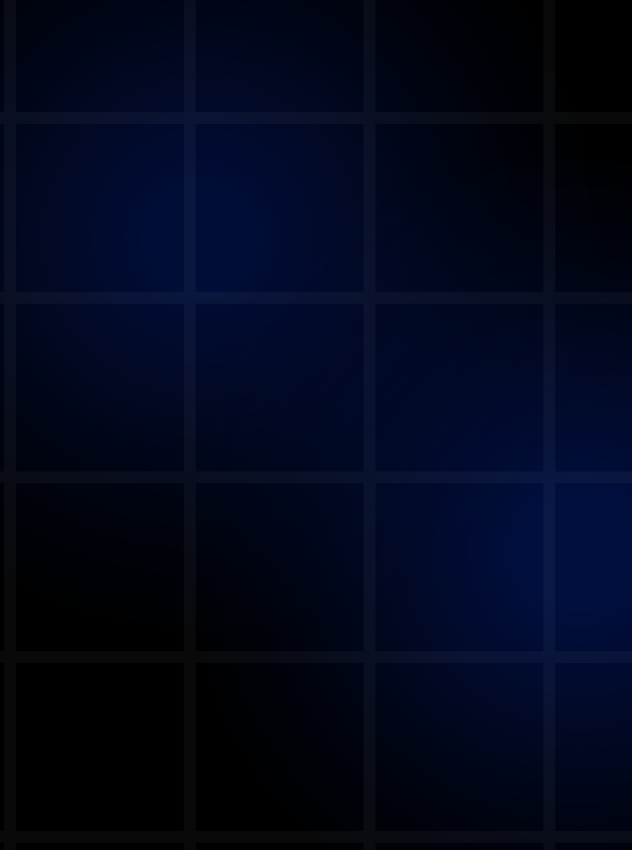
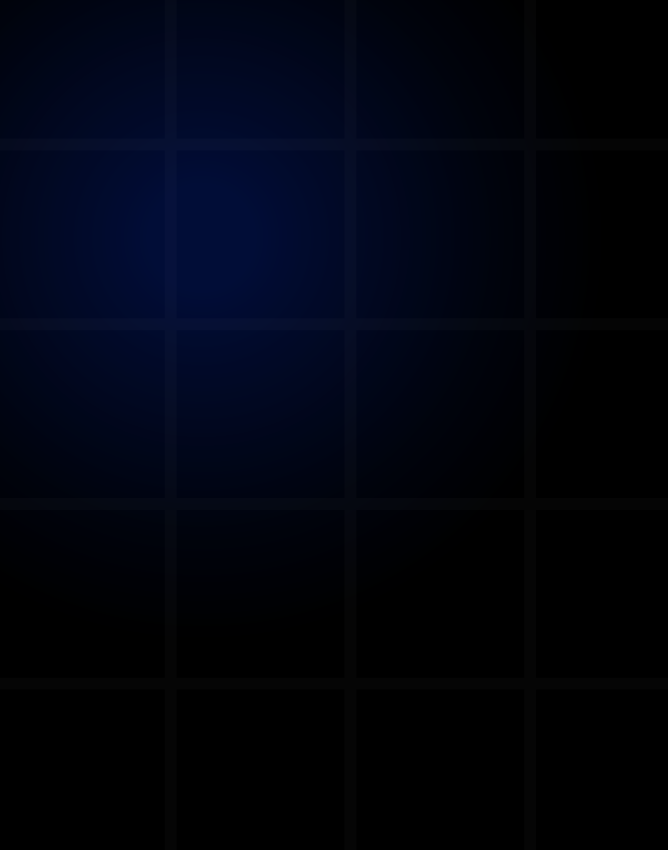
454677

Changed region(s): [[0.481, 0.2753, 1.0, 1.0]]

diff --git a/src/App.css b/src/App.css
@@ -11,8 +11,6 @@
   background-position: center; /* Center the background image */
   background-repeat: no-repeat; /* Prevent the image from repeating */ /* Minimum height of the section to ensure image visibility */
   width: 100%;
-  
-  
 }
 
 .website-logo img{
@@ -31,7 +29,7 @@
 @media  screen and (max-width: 765px)
  {
   #hero-section{
-    min-height: 100vh;
+    min-height: 70vh;
     background-image: url("./assets/Hero-Bg-mb.png"); /* Path to your image */
     background-size: cover; /* Ensure the image covers the whole section */
     background-position: center; /* Center the background image */
@@ -60,7 +58,7 @@
 }
 
 .believe-video-section {
-  min-height: 100vh;
+
   background-image: url("./assets/Hero-Bg.png"); /* Path to your image */
   background-size: cover; /* Ensure the image covers the whole section */
   background-position: center; /* Center the background image */
@@ -72,7 +70,7 @@
 @media  screen and (max-width: 765px)
  {
   .believe-video-section{
-    min-height: 100vh;
+ 
     background-image: url("./assets/Hero-Bg-mb.png"); /* Path to your image */
     background-size: cover; /* Ensure the image covers the whole section */
     background-position: center; /* Center the background image */
